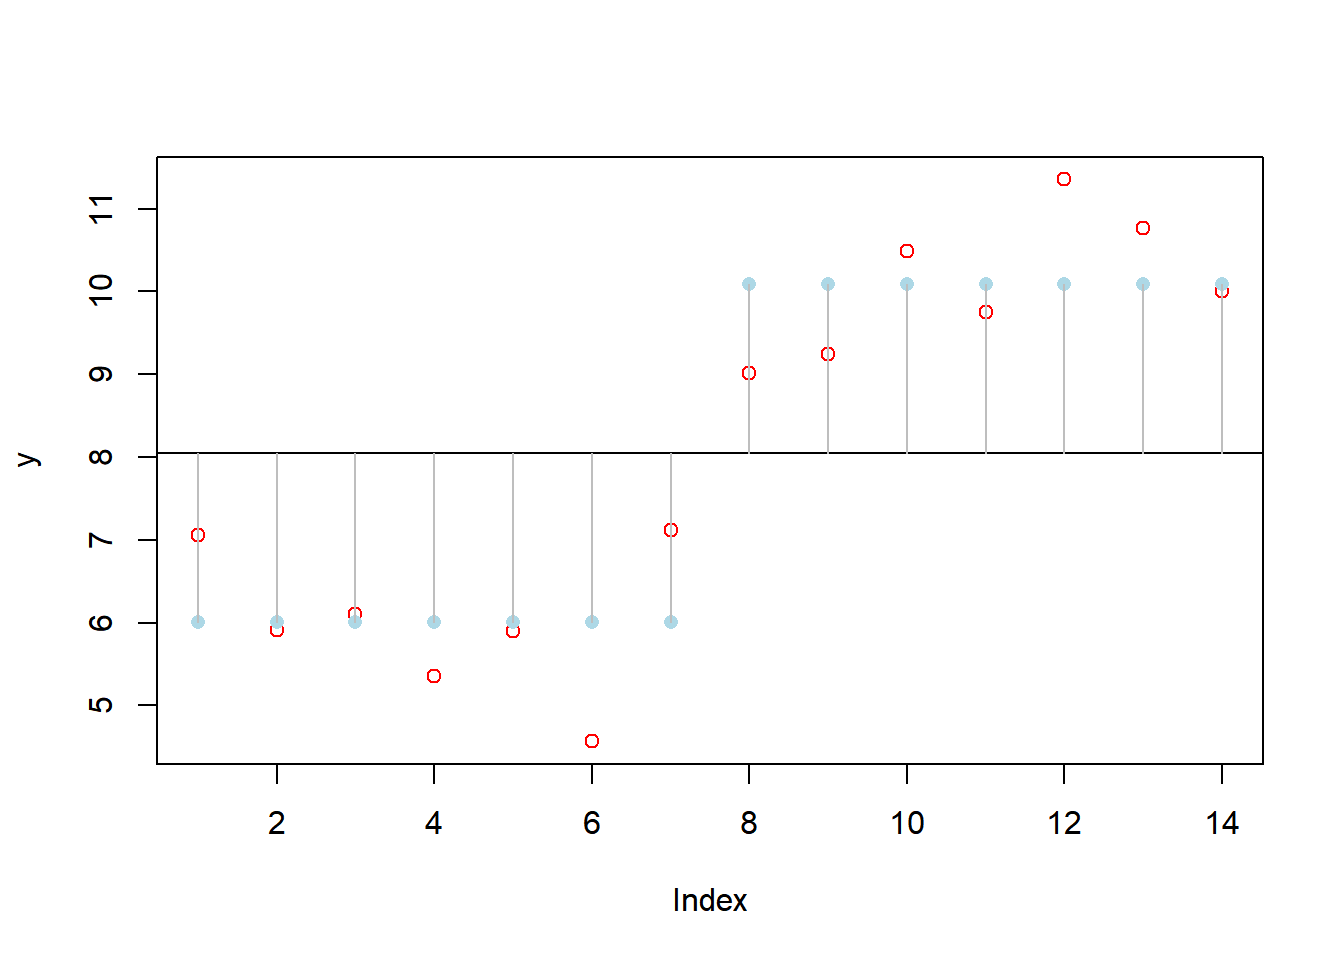
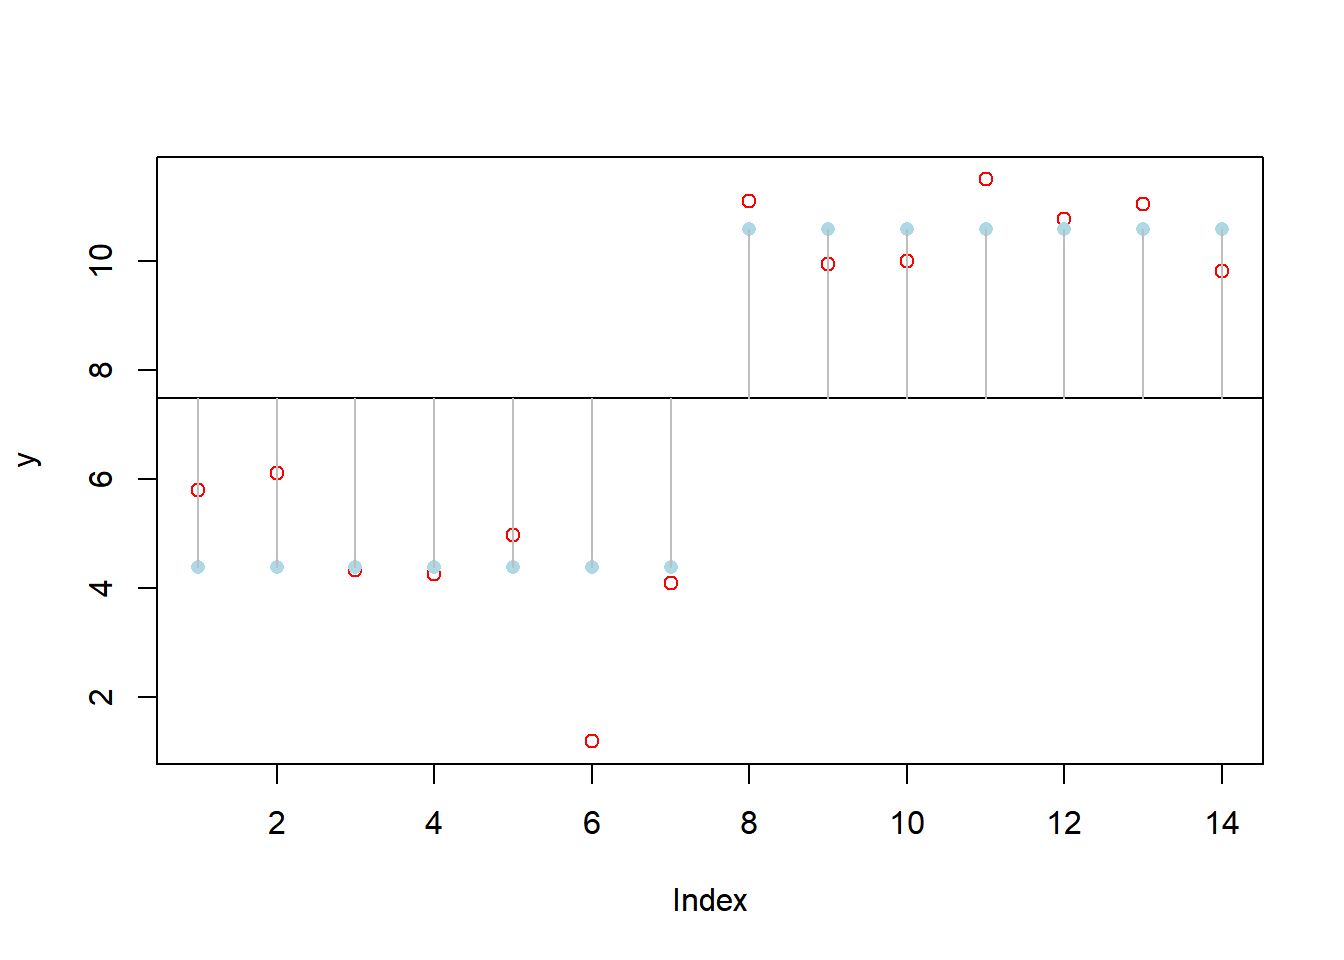
Conceptos

diff --git a/Blog/_site/posts/01-concepto-y-modelos-experimentar/index.html b/Blog/_site/posts/01-concepto-y-modelos-experimentar/index.html
@@ -480,7 +480,7 @@ Programar para explorar ideas
 </section>
 <section id="el-enfoque-de-modelación" class="level1">
 <h1>El enfoque de modelación</h1>
-<p>La propuesta que seguiremos en el <strong>Módulo 3</strong> se basa en traducir situaciones reales en abstracciones que escribimos como modelos estadísticos. De esta manera buscamos generar expresiones matemáticas que dan cuenta de nuestras concepciones sobre cómo funcionan aspectos concretos de la naturaleza. Es así que nos planteamos generar series de números <em>idealizados por el modelo</em> que podemos comparar con series de números observamos directamente de la naturaleza. Sí estas dos series de números se <em>parecen lo suficiente</em>, nos <em>sentiremos con confianza suficiente</em> como para pensar que nuestro modelo es útil para describir el comportamiento del segmento de la naturaleza que elegimos abstraer.</p>
+<p>La propuesta que seguiremos en el <strong>Módulo 3</strong> se basa en traducir situaciones reales en abstracciones que escribimos como modelos estadísticos. De esta manera buscamos generar expresiones matemáticas que dan cuenta de nuestras concepciones sobre cómo funcionan aspectos concretos de la naturaleza (<em>proposición causal</em>). Es así que nos planteamos generar series de números <em>idealizados por el modelo</em> que podemos comparar con series de números observamos directamente de la naturaleza. Sí estas dos series de números se <em>parecen lo suficiente</em>, nos <em>sentiremos con confianza</em> como para pensar que nuestro modelo es útil para describir el comportamiento del segmento de la naturaleza que elegimos abstraer.</p>
 <div class="callout callout-style-default callout-tip callout-titled" title="¿Podríamos usarlo para intervenir en él?">
 <div class="callout-header d-flex align-content-center">
 <div class="callout-icon-container">
@@ -637,7 +637,7 @@ H_0: m_1 = m_2 = m_3 = ... = m_k
 <span id="cb16-2"><a href="#cb16-2" aria-hidden="true" tabindex="-1"></a>dist_med_y</span></code><button title="Copiar al portapapeles" class="code-copy-button"><i class="bi"></i></button></pre></div>
 </details>
 <div class="cell-output cell-output-stdout">
-<pre><code>[1] 67.46908</code></pre>
+<pre><code>[1] 153.1044</code></pre>
 </div>
 </div>
 </div>
@@ -652,7 +652,7 @@ H_0: m_1 = m_2 = m_3 = ... = m_k
 </details>
 <div class="cell-output cell-output-stdout">
 <pre><code>        a         b 
- 6.003627 10.087852 </code></pre>
+ 4.395801 10.601048 </code></pre>
 </div>
 </div>
 <p>Grafiquemos esta nueva estructura de datos.</p>
@@ -690,7 +690,7 @@ H_0: m_1 = m_2 = m_3 = ... = m_k
 <span id="cb21-4"><a href="#cb21-4" aria-hidden="true" tabindex="-1"></a>dist_med_s</span></code><button title="Copiar al portapapeles" class="code-copy-button"><i class="bi"></i></button></pre></div>
 </details>
 <div class="cell-output cell-output-stdout">
-<pre><code>[1] 9.085962</code></pre>
+<pre><code>[1] 18.3366</code></pre>
 </div>
 </div>
 </div>
@@ -734,7 +734,7 @@ H_0: m_1 = m_2 = m_3 = ... = m_k
 <span id="cb24-3"><a href="#cb24-3" aria-hidden="true" tabindex="-1"></a>dist_med_s_y</span></code><button title="Copiar al portapapeles" class="code-copy-button"><i class="bi"></i></button></pre></div>
 </details>
 <div class="cell-output cell-output-stdout">
-<pre><code>[1] 58.38312</code></pre>
+<pre><code>[1] 134.7678</code></pre>
 </div>
 </div>
 </div>
@@ -768,9 +768,9 @@ Analiza la correspondencia entre los valores y las gráficas que vimos arriba co
 <pre><code>Analysis of Variance Table
 
 Response: y
-          Df Sum Sq Mean Sq F value    Pr(&gt;F)    
-f          1 58.383  58.383  77.108 1.431e-06 ***
-Residuals 12  9.086   0.757                      
+          Df  Sum Sq Mean Sq F value    Pr(&gt;F)    
+f          1 134.768 134.768  88.196 7.028e-07 ***
+Residuals 12  18.337   1.528                      
 ---
 Signif. codes:  0 '***' 0.001 '**' 0.01 '*' 0.05 '.' 0.1 ' ' 1</code></pre>
 </div>
@@ -779,21 +779,21 @@ Signif. codes:  0 '***' 0.001 '**' 0.01 '*' 0.05 '.' 0.1 ' ' 1</code></pre>
 <div class="sourceCode cell-code" id="cb28"><pre class="sourceCode r code-with-copy"><code class="sourceCode r"><span id="cb28-1"><a href="#cb28-1" aria-hidden="true" tabindex="-1"></a>dist_med_y</span></code><button title="Copiar al portapapeles" class="code-copy-button"><i class="bi"></i></button></pre></div>
 </details>
 <div class="cell-output cell-output-stdout">
-<pre><code>[1] 67.46908</code></pre>
+<pre><code>[1] 153.1044</code></pre>
 </div>
 <details>
 <summary>Código</summary>
 <div class="sourceCode cell-code" id="cb30"><pre class="sourceCode r code-with-copy"><code class="sourceCode r"><span id="cb30-1"><a href="#cb30-1" aria-hidden="true" tabindex="-1"></a>dist_med_s</span></code><button title="Copiar al portapapeles" class="code-copy-button"><i class="bi"></i></button></pre></div>
 </details>
 <div class="cell-output cell-output-stdout">
-<pre><code>[1] 9.085962</code></pre>
+<pre><code>[1] 18.3366</code></pre>
 </div>
 <details>
 <summary>Código</summary>
 <div class="sourceCode cell-code" id="cb32"><pre class="sourceCode r code-with-copy"><code class="sourceCode r"><span id="cb32-1"><a href="#cb32-1" aria-hidden="true" tabindex="-1"></a>dist_med_s_y </span></code><button title="Copiar al portapapeles" class="code-copy-button"><i class="bi"></i></button></pre></div>
 </details>
 <div class="cell-output cell-output-stdout">
-<pre><code>[1] 58.38312</code></pre>
+<pre><code>[1] 134.7678</code></pre>
 </div>
 </div>
 <div class="cell">
@@ -961,8 +961,10 @@ Signif. codes:  0 '***' 0.001 '**' 0.01 '*' 0.05 '.' 0.1 ' ' 1</code></pre>
 <div class="quarto-figure-spacer quarto-layout-cell" style="flex-basis: 1.1%;justify-content: center;">
 <p>&nbsp;</p>
 </div>
-<div class="quarto-layout-cell" style="flex-basis: 87.9%;justify-content: center;">
-<p><img src="images/clase_1-conceptos-prueba-hipotesis.png" class="img-fluid" width="200"></p>
+<div class="quarto-figure quarto-figure-center" style="flex-basis: 87.9%;justify-content: center;">
+<figure class="figure">
+<p><a href="https://vevox.app/#/m/152551925"><img src="images/clase_1-conceptos-prueba-hipotesis.png" class="img-fluid figure-img" width="200"></a></p>
+</figure>
 </div>
 <div class="quarto-figure-spacer quarto-layout-cell" style="flex-basis: 11.0%;justify-content: center;">
 <p>&nbsp;</p>

diff --git a/Blog/_site/index.html b/Blog/_site/index.html
@@ -216,7 +216,7 @@ Miguel Equihua, Octavio Pérez-Maqueo, Elio Lagunes
 </a>
 </div>
 </div>
-<div class="quarto-post image-right" data-index="1" data-categories="clase" data-listing-date-sort="1706508000000" data-listing-file-modified-sort="1706510821192" data-listing-date-modified-sort="NaN" data-listing-reading-time-sort="28">
+<div class="quarto-post image-right" data-index="1" data-categories="clase" data-listing-date-sort="1706508000000" data-listing-file-modified-sort="1706511473259" data-listing-date-modified-sort="NaN" data-listing-reading-time-sort="28">
 <div class="thumbnail">
 <p><a href="./posts/01-concepto-y-modelos-experimentar/index.html"> <p class="card-img-top"><img src="posts\01-concepto-y-modelos-experimentar\images\vampiro-dracula.png"  class="thumbnail-image card-img"/></p> </a></p>
 </div>
